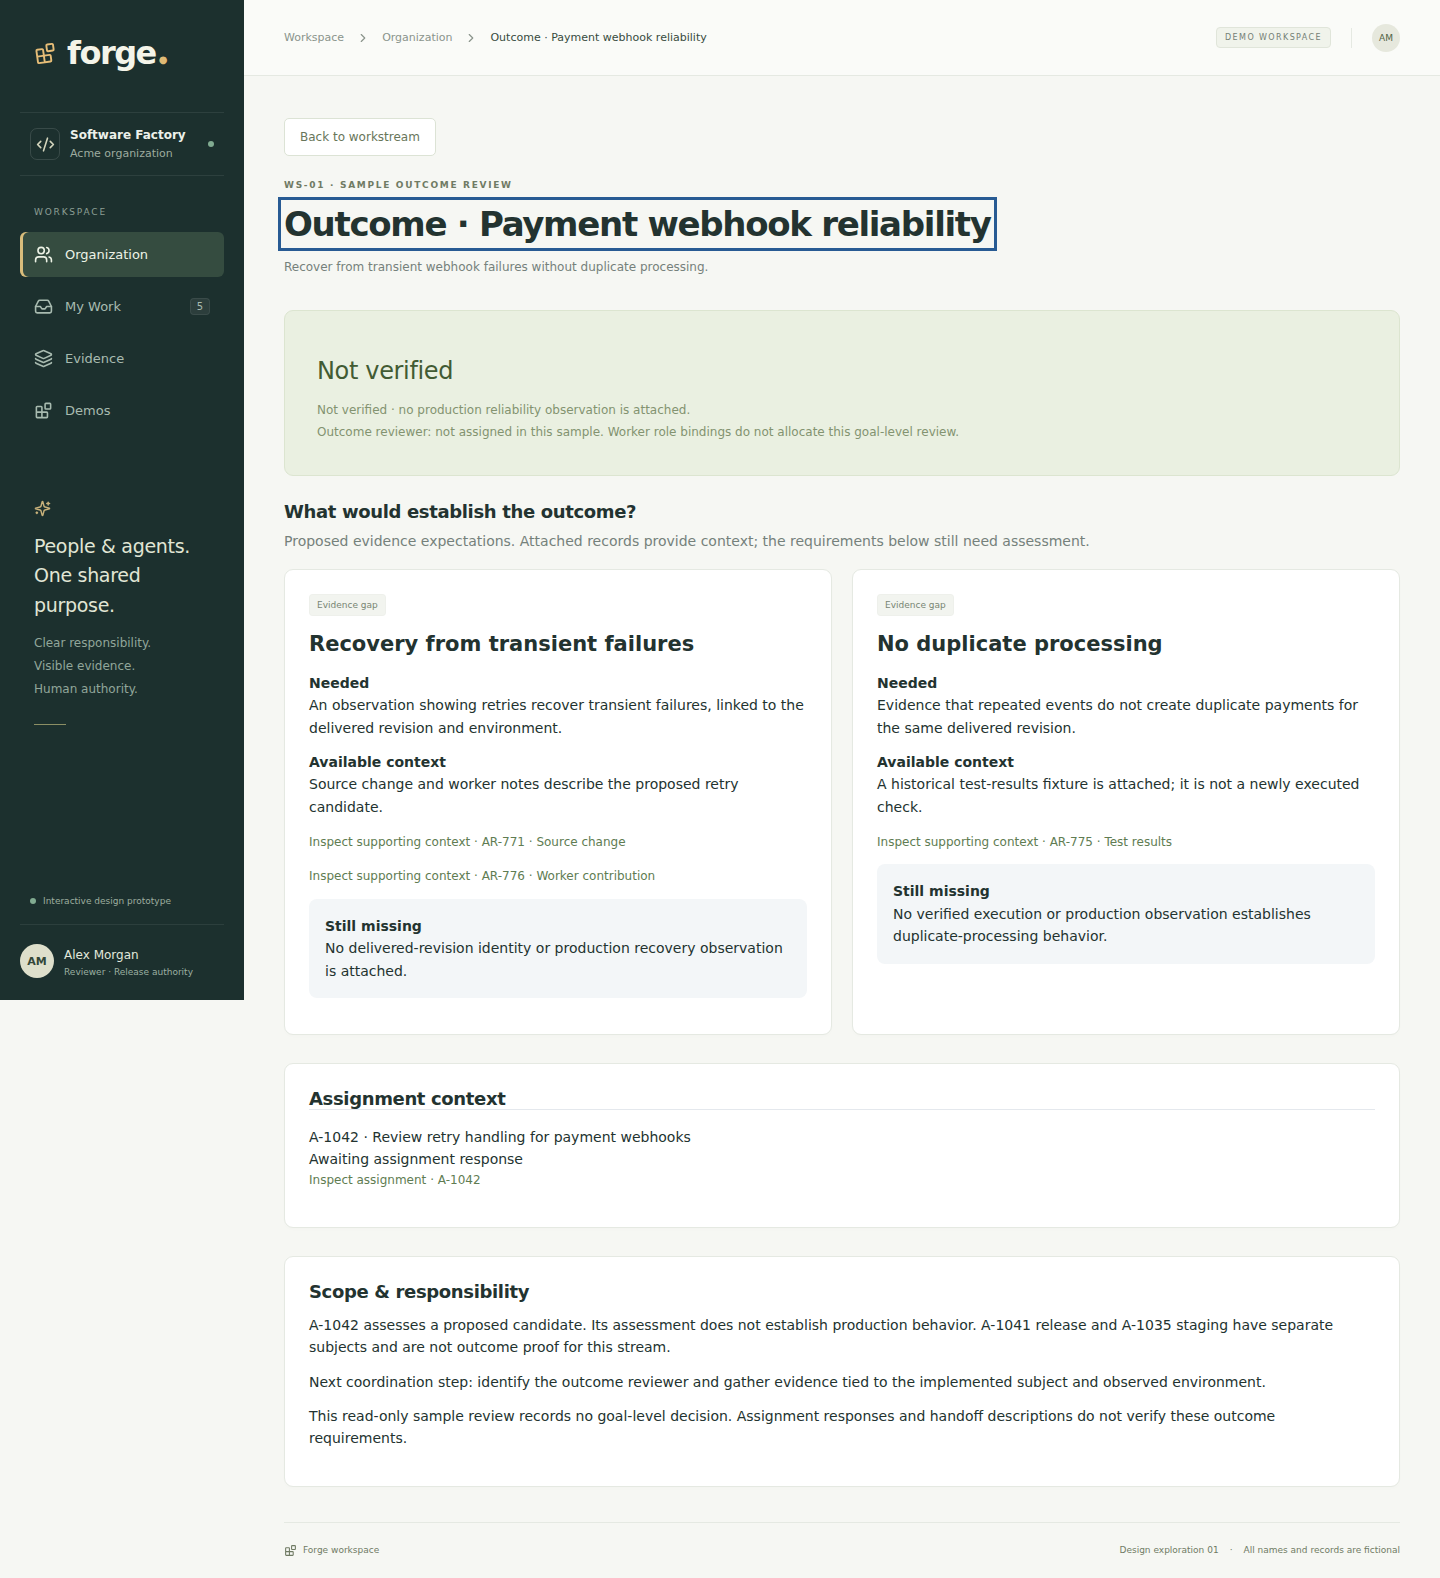
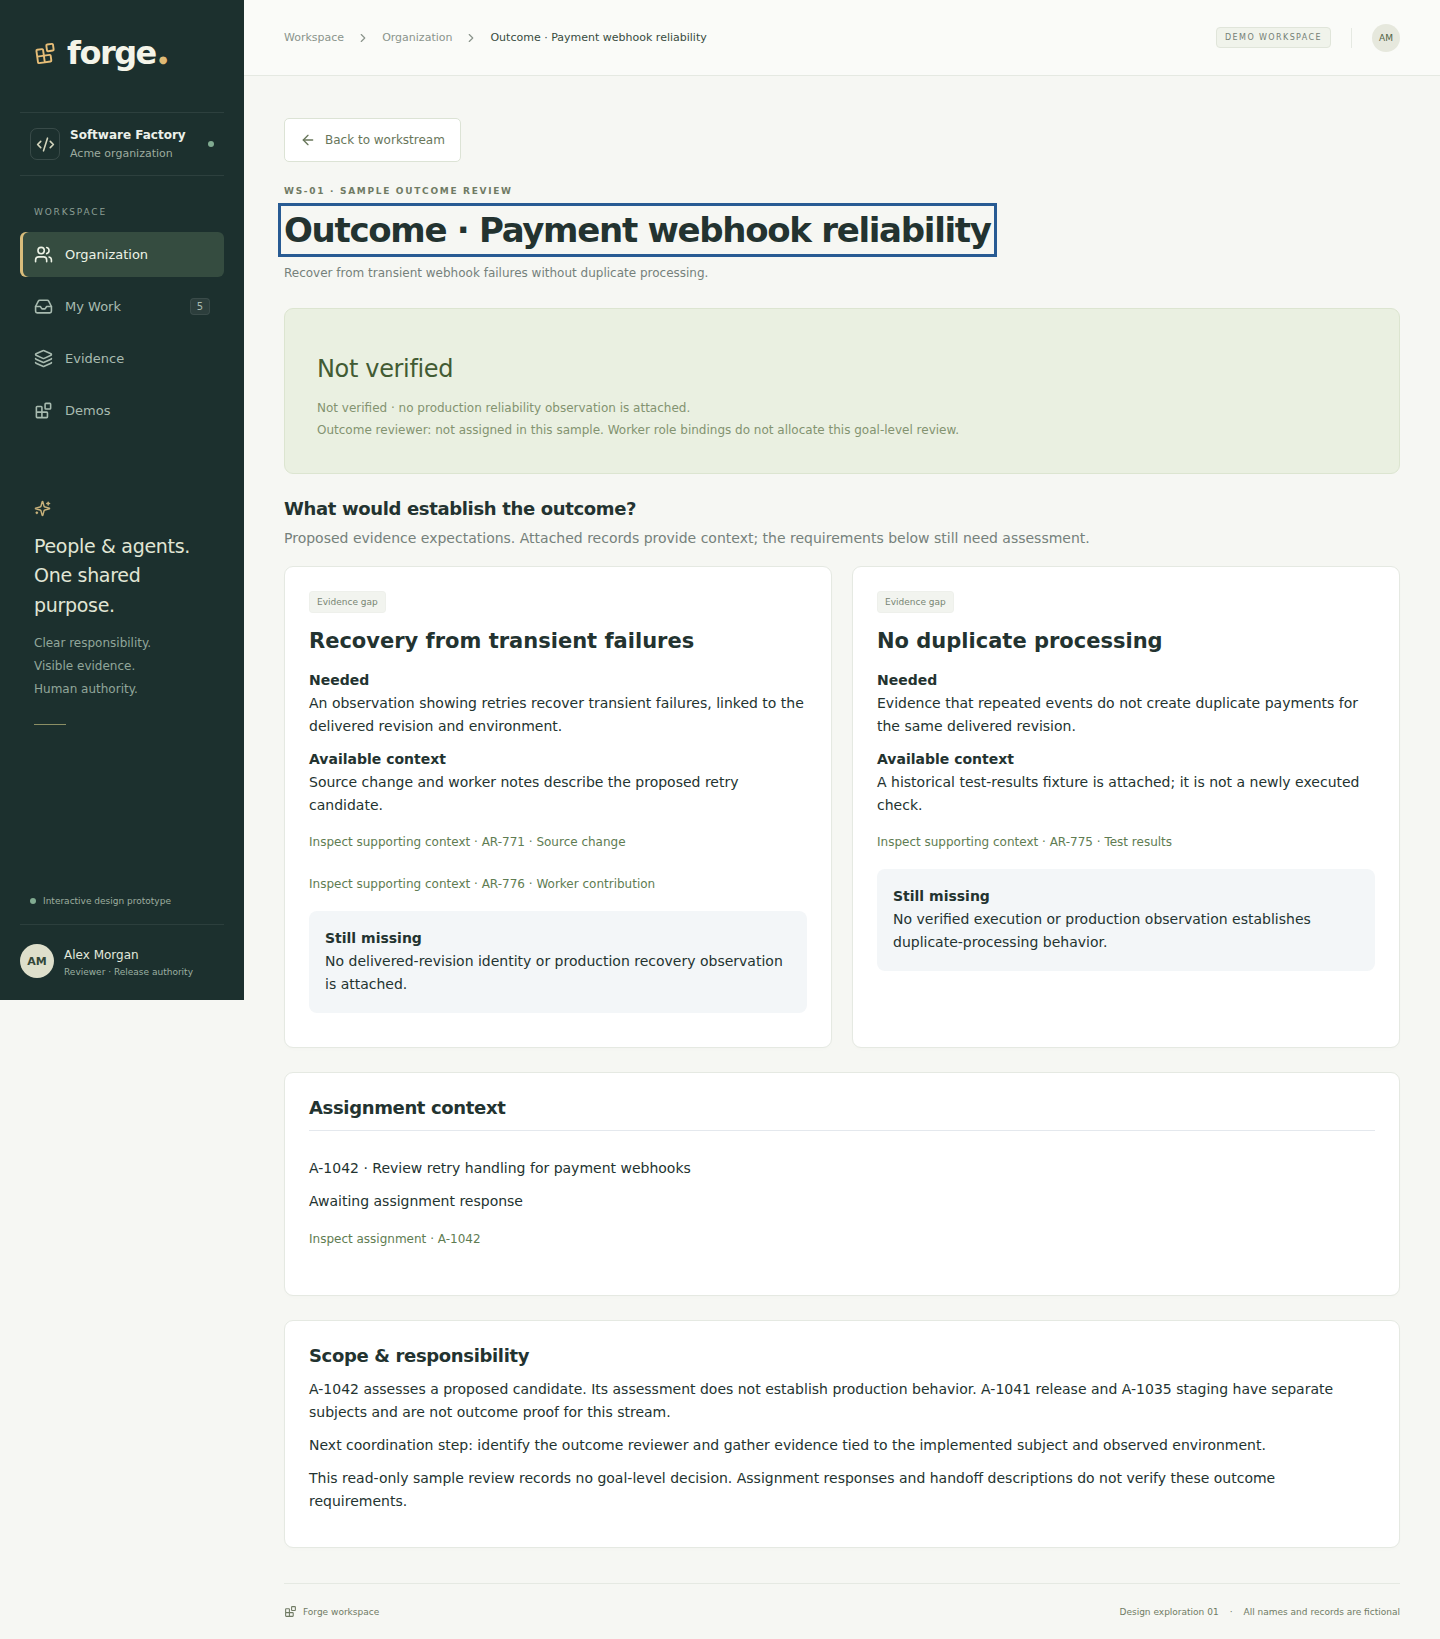
Standardize organization detail spacing controls and empty states

diff --git a/ui-design/src/OrganizationActivity.tsx b/ui-design/src/OrganizationActivity.tsx
@@ -1,3 +1,4 @@
+import { DetailBackButton, DetailEmptyState } from "./DetailPresentation";
 import type { EvidenceArtifact } from "./data/evidence";
 import { assignments } from "./data/assignments";
 import { evidenceArtifacts } from "./data/evidence";
@@ -45,10 +46,8 @@ export function OrganizationActivity({
     return `${id} · ${stream?.name ?? "Other organization work"}`;
   }
   return (
-    <>
-      <button className="button secondary" onClick={onBack}>
-        Back to Organization
-      </button>
+    <div className="detail-page">
+      <DetailBackButton onClick={onBack}>Back to Organization</DetailBackButton>
       <div className="page-heading workstream-heading">
         <div>
           <div className="eyebrow">ORGANIZATION ACTIVITY</div>
@@ -137,7 +136,11 @@ export function OrganizationActivity({
                 </button>
               </article>
             ))}
-            {responses.length === 0 && <p>No local responses in this scope.</p>}
+            {responses.length === 0 && (
+              <DetailEmptyState>
+                No local responses in this scope.
+              </DetailEmptyState>
+            )}
           </section>
         )}
         {type !== "responses" && (
@@ -172,17 +175,19 @@ export function OrganizationActivity({
               </article>
             ))}
             {evidence.length === 0 && (
-              <p>No attached evidence in this scope.</p>
+              <DetailEmptyState>
+                No attached evidence in this scope.
+              </DetailEmptyState>
             )}
           </section>
         )}
         {count === 0 && (
-          <p>
+          <DetailEmptyState>
             No matching records. The absence of records does not establish an
             outcome.
-          </p>
+          </DetailEmptyState>
         )}
       </section>
-    </>
+    </div>
   );
 }

diff --git a/ui-design/src/styles.css b/ui-design/src/styles.css
@@ -3223,3 +3223,76 @@ main h3,
     grid-template-columns: 1fr;
   }
 }
+
+.detail-page {
+  min-width: 0;
+}
+.detail-page .page-heading {
+  margin: 24px 0;
+}
+.detail-page .org-overview-section,
+.detail-page .org-banner {
+  margin-bottom: 24px;
+}
+.detail-page .org-stream > h2 {
+  margin-bottom: 12px;
+}
+.detail-page .org-stream p {
+  margin: 10px 0;
+  line-height: 1.65;
+}
+.detail-page .org-stream li {
+  line-height: 1.65;
+  margin: 6px 0;
+}
+.detail-page .org-stream > section + section {
+  margin-top: 28px;
+  padding-top: 24px;
+  border-top: 1px solid #e0e5df;
+}
+.detail-back {
+  min-height: 44px;
+}
+.detail-empty {
+  padding: 16px;
+  margin: 16px 0;
+  background: #f5f7f3;
+  border: 1px dashed #dce3d5;
+  border-radius: 8px;
+}
+.detail-page .detail-empty p {
+  margin: 0;
+}
+.detail-page .text-link {
+  min-height: 32px;
+  text-align: left;
+  white-space: normal;
+}
+@media (max-width: 600px) {
+  .detail-page .org-stream {
+    padding: 18px;
+  }
+  .detail-page .text-link {
+    min-height: 44px;
+  }
+  .detail-page .org-filters {
+    align-items: stretch;
+  }
+  .detail-page .org-filters label {
+    width: 100%;
+  }
+  .detail-page .org-filters select {
+    width: 100%;
+  }
+  .detail-page .workstream-actions > button {
+    width: 100%;
+  }
+}
+@media (max-width: 600px) {
+  .main-shell:has(.detail-page) .top-right {
+    display: none;
+  }
+  .main-shell:has(.detail-page) .breadcrumb-detail {
+    max-width: none;
+  }
+}

diff --git a/ui-design/src/WorkerDetail.tsx b/ui-design/src/WorkerDetail.tsx
@@ -1,3 +1,4 @@
+import { DetailBackButton, DetailEmptyState } from "./DetailPresentation";
 import type { Assignment } from "./data/models";
 import { assignments } from "./data/assignments";
 import { roleBindings, type Worker } from "./data/organizationOverview";
@@ -18,10 +19,8 @@ export function WorkerDetail({
     (binding) => binding.workerId === worker.id,
   );
   return (
-    <>
-      <button className="button secondary" onClick={onBack}>
-        Back to Organization
-      </button>
+    <div className="detail-page">
+      <DetailBackButton onClick={onBack}>Back to Organization</DetailBackButton>
       <div className="page-heading workstream-heading">
         <div>
           <div className="eyebrow">WORKER DETAIL · {worker.type}</div>
@@ -70,10 +69,10 @@ export function WorkerDetail({
                 </p>
                 <h4>Related assignments · {ids.length}</h4>
                 {ids.length === 0 && (
-                  <p>
+                  <DetailEmptyState>
                     No linked assignments in this sample. This does not mean the
                     worker is idle or available.
-                  </p>
+                  </DetailEmptyState>
                 )}
                 {ids.map((id) => {
                   const assignment = assignments.find((a) => a.id === id);
@@ -109,6 +108,6 @@ export function WorkerDetail({
           })}
         </div>
       </section>
-    </>
+    </div>
   );
 }

diff --git a/ui-design/src/HandoffDetail.tsx b/ui-design/src/HandoffDetail.tsx
@@ -1,3 +1,4 @@
+import { DetailBackButton, DetailEmptyState } from "./DetailPresentation";
 import type { EvidenceArtifact } from "./data/evidence";
 import type { Assignment } from "./data/models";
 import { assignments } from "./data/assignments";
@@ -20,10 +21,8 @@ export function HandoffDetail({
   const assignment = assignments.find((a) => a.id === handoff.assignmentId);
   const records = evidenceFor(handoff.assignmentId);
   return (
-    <>
-      <button className="button secondary" onClick={onBack}>
-        Back to workstream
-      </button>
+    <div className="detail-page">
+      <DetailBackButton onClick={onBack}>Back to workstream</DetailBackButton>
       <div className="page-heading workstream-heading">
         <div>
           <div className="eyebrow">{handoff.streamId} · SAMPLE HANDOFF</div>
@@ -126,7 +125,9 @@ export function HandoffDetail({
             )}
           </>
         ) : (
-          <p>No evidence records attached to this assignment in the sample.</p>
+          <DetailEmptyState>
+            No evidence records attached to this assignment in the sample.
+          </DetailEmptyState>
         )}
       </section>
       <section className="panel org-stream" aria-label="Handoff return path">
@@ -138,6 +139,6 @@ export function HandoffDetail({
           workstream goal.
         </p>
       </section>
-    </>
+    </div>
   );
 }

diff --git a/ui-design/src/OrganizationAttention.tsx b/ui-design/src/OrganizationAttention.tsx
@@ -1,3 +1,4 @@
+import { DetailBackButton, DetailEmptyState } from "./DetailPresentation";
 import { assignments } from "./data/assignments";
 import type { Assignment, Readiness } from "./data/models";
 import {
@@ -27,10 +28,8 @@ export function OrganizationAttention({
     (item) => category === "All" || item.category === category,
   );
   return (
-    <>
-      <button className="button secondary" onClick={onBack}>
-        Back to Organization
-      </button>
+    <div className="detail-page">
+      <DetailBackButton onClick={onBack}>Back to Organization</DetailBackButton>
       <div className="page-heading workstream-heading">
         <div>
           <div className="eyebrow">ORGANIZATION ATTENTION</div>
@@ -107,16 +106,16 @@ export function OrganizationAttention({
           ))}
         </div>
         {shown.length === 0 && (
-          <p>
+          <DetailEmptyState>
             No matching attention items in this sample. This does not establish
             organization health.
-          </p>
+          </DetailEmptyState>
         )}
         <p>
           Recorded responses clear their response signal. Responsibility gaps
           and unverified outcomes require separate evidence and remain visible.
         </p>
       </section>
-    </>
+    </div>
   );
 }

diff --git a/ui-design/src/WorkstreamDetail.tsx b/ui-design/src/WorkstreamDetail.tsx
@@ -1,3 +1,4 @@
+import { DetailBackButton, DetailEmptyState } from "./DetailPresentation";
 import type { EvidenceArtifact } from "./data/evidence";
 import { handoffs } from "./data/handoffs";
 import type { Assignment } from "./data/models";
@@ -25,10 +26,8 @@ export function WorkstreamDetail({
 }) {
   const detail = workstreamDetails[stream.id];
   return (
-    <>
-      <button className="button secondary" onClick={onBack}>
-        Back to Organization
-      </button>
+    <div className="detail-page">
+      <DetailBackButton onClick={onBack}>Back to Organization</DetailBackButton>
       <div className="page-heading workstream-heading">
         <div>
           <div className="eyebrow">
@@ -150,10 +149,10 @@ export function WorkstreamDetail({
                   </button>
                 </>
               ) : (
-                <p>
+                <DetailEmptyState>
                   No evidence records attached. A missing record is not a failed
                   check or a verified outcome.
-                </p>
+                </DetailEmptyState>
               )}
             </article>
           );
@@ -167,6 +166,6 @@ export function WorkstreamDetail({
           does not establish a dependency.
         </p>
       </section>
-    </>
+    </div>
   );
 }

diff --git a/ui-design/src/OutcomeReview.tsx b/ui-design/src/OutcomeReview.tsx
@@ -1,3 +1,4 @@
+import { DetailBackButton } from "./DetailPresentation";
 import type { EvidenceArtifact } from "./data/evidence";
 import { assignments } from "./data/assignments";
 import { evidenceArtifacts } from "./data/evidence";
@@ -21,10 +22,8 @@ export function OutcomeReview({
   onBack: () => void;
 }) {
   return (
-    <>
-      <button className="button secondary" onClick={onBack}>
-        Back to workstream
-      </button>
+    <div className="detail-page">
+      <DetailBackButton onClick={onBack}>Back to workstream</DetailBackButton>
       <div className="page-heading workstream-heading">
         <div>
           <div className="eyebrow">{stream.id} · SAMPLE OUTCOME REVIEW</div>
@@ -148,6 +147,6 @@ export function OutcomeReview({
           outcome requirements.
         </p>
       </section>
-    </>
+    </div>
   );
 }

diff --git a/ui-design/src/DetailPresentation.tsx b/ui-design/src/DetailPresentation.tsx
@@ -1,0 +1,25 @@
+import { ArrowLeft } from "lucide-react";
+import type { ReactNode } from "react";
+
+export function DetailBackButton({
+  children,
+  onClick,
+}: {
+  children: ReactNode;
+  onClick: () => void;
+}) {
+  return (
+    <button className="button secondary detail-back" onClick={onClick}>
+      <ArrowLeft size={16} aria-hidden="true" />
+      {children}
+    </button>
+  );
+}
+
+export function DetailEmptyState({ children }: { children: ReactNode }) {
+  return (
+    <div className="detail-empty">
+      <p>{children}</p>
+    </div>
+  );
+}

diff --git a/ui-design/UI-REVIEW.md b/ui-design/UI-REVIEW.md
@@ -10,13 +10,12 @@ Implemented:
 - Other organization work and responsibility-gap explanations start collapsed and remain accessible through native summary controls. Their signals remain visible in Organization attention.
 - Detail-page breadcrumbs identify the current subject and provide an Organization return action. Long mobile labels truncate visually while retaining their full accessible text.
 
-Remaining opportunities, in priority order:
+Completed follow-up improvements:
 
-Completed next increment: the overview now shows three attention counts linked to a dedicated list, with durable category URLs.
-Completed: the Alex queue now lives under My Work and the standalone revision cycle has a Demos entry.
-Completed: cited artifact links in workstreams, handoffs, outcomes and organization activity open the exact record in the inspector while preserving their source page.
-1. Review shared spacing, empty states and contextual return paths across all detail pages.
+- Compact attention summary with a dedicated list and durable category URLs.
+- Personal queue under My Work and an independent Demos entry.
+- Exact cited artifact inspection on its source page.
+- Contextual assignment return with session filters, scroll and link focus.
+- Shared detail-page back controls, spacing and empty-state presentation, with larger mobile targets and full-width filters/actions.
 
-This increment keeps the authored sample model and existing response semantics. The review does not establish production API compatibility.
-
-Contextual assignment return is now implemented: the primary Back button names the source page and restores session filters, scroll and source focus. Direct assignment links after refresh fall back to My Work.
+The current review list is complete. The prototype still uses authored sample data; these changes do not establish production API compatibility. A later review can evaluate larger organization scenarios before adding new administrative features.

diff --git a/ui-design/ITERATIONS.md b/ui-design/ITERATIONS.md
@@ -499,3 +499,11 @@ Assignment Back buttons now name the source page: workstream, handoff, outcome r
 Organization activity and queue filters move to app-owned state so they survive assignment return. Main navigation resets those filters. Inbox row restoration remains separate. A refreshed/directly loaded assignment has no session source and returns to My Work. Added the assignment-source preview and capture step, and documented the session boundary.
 
 Validation: production build passed. Eight relevant browser tests passed across the initial and focused reruns. Two expectations were updated for the intended source-link focus and explicit refresh boundary. New coverage verifies all source types, retained filters, tab changes, source scroll/focus, attention category and direct-link fallback; existing inbox/filter, queue and activity behavior passed. Preview was visually inspected.
+
+## 49 — Consistent detail presentation
+
+Six organization detail views now share a back-button control with an arrow and a common empty-state frame. Scoped detail styles unify heading/section spacing, paragraph/list rhythm and activity-section separation. Mobile filters and action groups use the available width, text links have larger targets, and detail breadcrumbs gain space by hiding the redundant demo badge on narrow screens.
+
+Data, responses and contextual return behavior remain unchanged. The layout/navigation review list is now complete. Refreshed five detail previews and visually inspected the empty worker state on mobile.
+
+Validation: production build and seven relevant browser tests passed for detail routes, empty states, evidence/response semantics, mobile overflow and source-return focus/scroll. After the final mobile breadcrumb adjustment, three mobile-bearing worker/activity/outcome tests passed again.

diff --git a/ui-design/README.md b/ui-design/README.md
@@ -195,3 +195,5 @@ Attention is now a compact three-category summary on the overview. Select a coun
 Cited artifact links now open the exact record in the inspector from workstreams, handoffs, outcome review and organization activity. Closing preserves the current route and filters and restores keyboard focus. [Exact artifact preview](previews/29-outcome-artifact-inspector.png).
 
 Assignment Back buttons now identify their source page and restore its session filters, scroll and link focus. Direct assignment links after refresh use My Work as the return destination.
+
+Organization detail pages share back-button, spacing and empty-state styles. On mobile, filters and action groups expand to the available width and text-link targets are larger.
